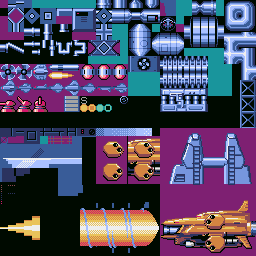
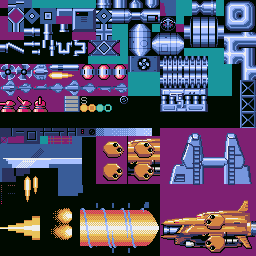
ステージ４　柱当たり判定処理修正 ステージ１ボス　攻撃修正など

Changed region(s): [[0.1875, 0.8125, 0.2812, 0.9375], [0.0938, 0.6875, 0.1562, 0.7812]]

diff --git a/source/boss1.py b/source/boss1.py
@@ -66,6 +66,8 @@ class Boss1(enemy.EnemyBase):
 		self.beamTime = __class__.beamTimes[GameSession.difficulty]
 		#gcommon.debugPrint("beam Time = " + str(self.beamTime))
 		self.tbl = []
+		self.shotFlag = False
+		self.dy = 0.0
 		self.beamObj = Boss1Beam(self)
 		ObjMgr.addObj(self.beamObj)
 
@@ -138,7 +140,7 @@ class Boss1(enemy.EnemyBase):
 					newTbl.append(s)
 			self.tbl = newTbl
 
-			if self.cnt > self.beamTime:
+			if self.cnt > 90:
 				self.nextState()
 				BGM.sound(gcommon.SOUND_BOSS1BEAM)
 		elif self.state == 5:
@@ -157,29 +159,34 @@ class Boss1(enemy.EnemyBase):
 			self.beam = 6
 			zy = abs(self.y +30 - ObjMgr.myShip.y)
 			if zy > 80:
-				dy = 3
+				self.dy = 3
 			elif zy > 50:
-				dy = 2
+				self.dy = 2
 			elif zy > 20:
-				dy = 1
+				self.dy = 1
 			else:
-				dy = 0.25
+				self.dy = 0.25
 			if self.y +30 > ObjMgr.myShip.y:
-				dy = -dy
-			self.y += dy
-			if self.cnt % 30 == 0:
-				self.shotFix4()
+				self.dy = -self.dy
+			self.y += self.dy
+			#if self.cnt % 30 == 0:
+			#	self.shotFix4()
 			if self.cnt > self.beamTime:
 				self.nextState()
 		elif self.state == 8:
+			self.dy = 0.0
 			# ビーム発射終了（移動なし）
 			self.beam = 5- int(self.cnt/3)
 			self.beamObj.hitCheck = False
 			if self.beam < 0:
-				self.state = 3
-				self.cnt = 0
+				self.setState(3)
 	def draw(self):
 		if self.state == 4:
+			if self.cnt > 20:
+				if self.cnt & 3 == 0:
+					pyxel.blt(self.x -22, self.y+22, 1, 48, 208, 24, 16, 0)
+				elif self.cnt & 3 == 1:
+					pyxel.blt(self.x -22, self.y+22, 1, 48, 224, 24, 16, 0)
 			for s in self.tbl:
 				y = s.x* s.x/s.a
 				pyxel.pset(self.x -s.x, self.y +28 -y + s.y, 7)
@@ -190,6 +197,24 @@ class Boss1(enemy.EnemyBase):
 		else:
 			pyxel.blt(self.x +40, self.y+8, 1, 128, 136, 32, 48, gcommon.TP_COLOR)
 		pyxel.blt(self.x +72, self.y , 1, 232, 200, 24, 56, gcommon.TP_COLOR)
+
+		# バーニア
+		if self.dy > 0.1:
+			if self.cnt & 3 == 0:
+				pyxel.blt(self.x +24, self.y-6, 1, 24, 176, 8, -26, 0)
+				pyxel.blt(self.x +72, self.y-6, 1, 24, 176, 8, -26, 0)
+			elif self.cnt & 3 == 2:
+				pyxel.blt(self.x +24, self.y-6, 1, 32, 176, 8, -26, 0)
+				pyxel.blt(self.x +72, self.y-6, 1, 32, 176, 8, -26, 0)
+		elif self.dy < -0.1:
+			if self.cnt & 3 == 0:
+				pyxel.blt(self.x +24, self.y+42, 1, 24, 176, 8, 26, 0)
+				pyxel.blt(self.x +72, self.y+42, 1, 24, 176, 8, 26, 0)
+			elif self.cnt & 3 == 2:
+				pyxel.blt(self.x +24, self.y+42, 1, 32, 176, 8, 26, 0)
+				pyxel.blt(self.x +72, self.y+42, 1, 32, 176, 8, 26, 0)
+
+		# ビーム表示
 		if self.beam >= 1 and self.beam <=5:
 			bx = self.x -12
 			while(bx > -8):
@@ -213,25 +238,35 @@ class Boss1(enemy.EnemyBase):
 
 	def shotFix4(self):
 		ox = 0 if self.isLeft else 8
-		enemy.enemy_shot_dr(self.x +48 +ox*2, self.y +22, 4, 1, self.getDirection(33))
-		enemy.enemy_shot_dr(self.x +52 +ox, self.y +16, 4, 1, self.getDirection(37))
-		enemy.enemy_shot_dr(self.x +48 +ox*2, self.y +42, 4, 1, self.getDirection(31))
-		enemy.enemy_shot_dr(self.x +52 +ox, self.y +48, 4, 1, self.getDirection(27))
+		if self.shotFlag:
+			enemy.enemy_shot_dr(self.x +48 +ox*2, self.y +22, 4, 1, self.getDirection(32+3))
+			enemy.enemy_shot_dr(self.x +52 +ox, self.y +16, 4, 1, self.getDirection(32+7))
+			enemy.enemy_shot_dr(self.x +48 +ox*2, self.y +42, 4, 1, self.getDirection(32-3))
+			enemy.enemy_shot_dr(self.x +52 +ox, self.y +48, 4, 1, self.getDirection(32-7))
+			self.shotFlag = False
+		else:
+			enemy.enemy_shot_dr(self.x +48 +ox*2, self.y +22, 4, 1, self.getDirection(32+1))
+			enemy.enemy_shot_dr(self.x +52 +ox, self.y +16, 4, 1, self.getDirection(32+5))
+			enemy.enemy_shot_dr(self.x +48 +ox*2, self.y +42, 4, 1, self.getDirection(32-1))
+			enemy.enemy_shot_dr(self.x +52 +ox, self.y +48, 4, 1, self.getDirection(32-5))
+			self.shotFlag = True
 		BGM.sound(gcommon.SOUND_SHOT2)
 
 	def shotFix8(self):
 		ox = 0 if self.isLeft else 8
-		enemy.enemy_shot_dr(self.x +48 +ox*2, self.y +22, 2, 0, self.getDirection(31))
-		enemy.enemy_shot_dr(self.x +48 +ox*2, self.y +22, 2, 0, self.getDirection(33))
-		
-		enemy.enemy_shot_dr(self.x +52 +ox, self.y +16, 2, 0, self.getDirection(35))
-		enemy.enemy_shot_dr(self.x +52 +ox, self.y +16, 2, 0, self.getDirection(37))
-		
-		enemy.enemy_shot_dr(self.x +48 +ox*2, self.y +42, 2, 0, self.getDirection(31))
-		enemy.enemy_shot_dr(self.x +48 +ox*2, self.y +42, 2, 0, self.getDirection(33))
-		
-		enemy.enemy_shot_dr(self.x +52 +ox, self.y +48, 2, 0, self.getDirection(27))
-		enemy.enemy_shot_dr(self.x +52 +ox, self.y +48, 2, 0, self.getDirection(29))
+
+		if self.shotFlag:
+			enemy.enemy_shot_dr(self.x +48 +ox*2, self.y +22, 4, 1, self.getDirection(32+3))
+			enemy.enemy_shot_dr(self.x +52 +ox, self.y +16, 4, 1, self.getDirection(32+7))
+			enemy.enemy_shot_dr(self.x +48 +ox*2, self.y +42, 4, 1, self.getDirection(32-3))
+			enemy.enemy_shot_dr(self.x +52 +ox, self.y +48, 4, 1, self.getDirection(32-7))
+			self.shotFlag = False
+		else:
+			enemy.enemy_shot_dr(self.x +48 +ox*2, self.y +22, 4, 1, self.getDirection(32+1))
+			enemy.enemy_shot_dr(self.x +52 +ox, self.y +16, 4, 1, self.getDirection(32+5))
+			enemy.enemy_shot_dr(self.x +48 +ox*2, self.y +42, 4, 1, self.getDirection(32-1))
+			enemy.enemy_shot_dr(self.x +52 +ox, self.y +48, 4, 1, self.getDirection(32-5))
+			self.shotFlag = True
 		BGM.sound(gcommon.SOUND_SHOT2)
 
 	def broken(self):

diff --git a/source/enemy.py b/source/enemy.py
@@ -1415,8 +1415,8 @@ class Missile3(EnemyBase):
 			if self.dx > 3:
 				self.dx = 3
 		if self.x < 32:
-			for i in range(16):
-				enemy_shot_dr(self.x + 8, self.y + 3, 2, 0, i*4)
+			for i in range(6):
+				enemy_shot_dr(self.x + 8, self.y + 3, 2, 0, int(i*10.6))
 			self.remove()
 		
 	def drawMissile(self):
@@ -1804,10 +1804,10 @@ class Worm2(EnemyBase):
 		self.y = t[3]
 		self.dr = t[4]
 		self.tbl = t[5]
-		self.left = 2
-		self.top = 2
-		self.right = 21
-		self.bottom = 21
+		self.left = 4
+		self.top = 4
+		self.right = 19
+		self.bottom = 19
 		self.hp = 600
 		#self.layer = gcommon.C_LAYER_UNDER_GRD
 		self.layer = gcommon.C_LAYER_GRD
@@ -2050,9 +2050,11 @@ class FallingObject(EnemyBase):
 		for i in range(self.mWidth):
 			check = False
 			if self.direction == 1:
-				check = gcommon.isMapFreePos(self.x + i*8, self.y +self.mHeight * 8)
+				#check = gcommon.isMapFreePos(self.x + i*8, self.y +self.mHeight * 8)
+				check = gcommon.isMapZeroPos(self.x + i*8, self.y +self.mHeight * 8)
 			else:
-				check = gcommon.isMapFreePos(self.x + i*8, self.y -1)
+				#check = gcommon.isMapFreePos(self.x + i*8, self.y -1)
+				check = gcommon.isMapZeroPos(self.x + i*8, self.y -1)
 			if check == False:
 				# 何かある
 				exist = True
@@ -2089,6 +2091,10 @@ class RuinPillar1(FallingObject):
 	def __init__(self, mx, my, direction, size):
 		super(RuinPillar1, self).__init__(mx, my, direction, 2, size, True)
 		self.size = size	# 高さ（8ドット単位） 2 - 6
+		self.left = 2
+		self.top = 0
+		self.right = 2 * 8 -3
+		self.bottom = self.mHeight * 8 -1
 		self.hp = 30
 		self.score = 50
 		self.bx = (self.size -2) * 2
@@ -2104,10 +2110,10 @@ class RuinFloor1(FallingObject):
 	def __init__(self, mx, my, direction, size):
 		super(RuinFloor1, self).__init__(mx, my, direction, size*2, 2, True)
 		self.size = size
-		self.left = 0
-		self.top = 4
-		self.right = self.mWidth * 8
-		self.bottom = self.mHeight * 8 -5
+		self.left = 2
+		self.top = 0
+		self.right = self.mWidth * 8 -3
+		self.bottom = self.mHeight * 8 -1
 		self.by = (self.size -2) * 2
 		self.enemyShotCollision = True
 		self.shotEffect = False
@@ -3400,9 +3406,9 @@ class Fighter2(EnemyBase):
 		self.brakeX = t[4]
 		self.dx = -3
 		self.direction = t[5]	# -1: 上  1:下
-		self.left = 5
+		self.left = 8
 		self.top = 4
-		self.right = 21
+		self.right = 29
 		self.bottom = 27
 		self.hp = 30
 		self.layer = gcommon.C_LAYER_SKY

diff --git a/source/boss4.py b/source/boss4.py
@@ -44,14 +44,17 @@ class Boss4(enemy.EnemyBase):
 				self.nextState()
 		elif self.state == 1:
 			if self.subState == 0:
+				# 上に移動
 				self.y -= 1
 				if self.y < 8:
 					self.nextSubState()
 			elif self.subState == 1:
+				# 下に移動
 				self.y += 1
 				if self.y > 140:
 					self.nextSubState()
 			elif self.subState == 2:
+				# 上に移動
 				self.y -= 1
 				if self.y < 80:
 					self.subState = 0
@@ -59,9 +62,9 @@ class Boss4(enemy.EnemyBase):
 					self.nextState()
 			if self.cnt & 15 == 15:
 				self.shotDanmaku()
-		elif self.state == 2:
+		elif self.state in (2, 3, 4):
 			self.shotMissle()
-		elif self.state == 3:
+		elif self.state == 5:
 			if self.subState == 0:
 				self.y += 1
 				if self.y > 140:
@@ -78,9 +81,9 @@ class Boss4(enemy.EnemyBase):
 					self.nextState()
 			if self.cnt & 15 == 15:
 				self.shotDanmaku()
-		elif self.state in  [4, 5, 6, 7, 8]:
+		elif self.state in  [6, 7, 8, 9, 10]:
 			self.shotMissle()
-		elif self.state == 9:
+		elif self.state == 11:
 			self.setState(1)
 
 	def shotMissle(self):
@@ -105,12 +108,12 @@ class Boss4(enemy.EnemyBase):
 					elif mt == 1:
 						self.missileObj[i] = enemy.Missile2(self.x, self.y +16, 0)
 					else:
-						self.missileObj[i] = enemy.Missile3(self.x, self.y +16, 0)
+						self.missileObj[i] = enemy.Missile1(self.x, self.y +16, 0)
 				self.missileIndex += 1
 				if self.missileIndex >= len(missileTable):
 					self.missileIndex = 0
 				self.subCnt += 1
-			elif self.subCnt == 40:
+			elif self.subCnt == 20:
 				# ミサイル発射中へ
 				self.nextSubState()
 				self.missileState = 0
@@ -138,7 +141,7 @@ class Boss4(enemy.EnemyBase):
 				self.subCnt = 0
 		elif self.subState == 2:
 			# 待ち
-			if self.subCnt == 30:
+			if self.subCnt == 20:
 				self.setSubState(0)
 				self.nextState()
 				return
@@ -146,7 +149,7 @@ class Boss4(enemy.EnemyBase):
 
 	def shotDanmaku(self):
 		if self.cnt & 31 == 31:
-			speed = 3
+			speed = 2.5
 			enemy.enemy_shot_dr(self.x +52, self.y +16, speed, 0, 35)
 			enemy.enemy_shot_dr(self.x +48, self.y +22, speed, 0, 31)
 			enemy.enemy_shot_dr(self.x +48, self.y +42, speed, 0, 33)

diff --git a/source/gcommon.py b/source/gcommon.py
@@ -772,6 +772,10 @@ def isMapFree(no):
 	global mapAttribute
 	return mapAttribute[no >> 5][no & 31] != "1"
 
+def isMapZero(no):
+	global mapAttribute
+	return mapAttribute[no >> 5][no & 31] == "0"
+
 # 敵弾発射可能？
 def isShotMapPos(x, y):
 	no = getMapData(x, y)
@@ -786,6 +790,13 @@ def isMapFreePos(x, y):
 	no = getMapData(x, y)
 	if no >= 0:
 		return isMapFree(no)
+	else:
+		return True
+
+def isMapZeroPos(x, y):
+	no = getMapData(x, y)
+	if no >= 0:
+		return isMapZero(no)
 	else:
 		return True
 

diff --git a/source/mapDraw.py b/source/mapDraw.py
@@ -518,10 +518,7 @@ class MapDraw4:
 					ObjMgr.addObj(obj)
 				elif n in (390, 391):
 					# 砲台
-					obj = enemy.Battery2(mx, my, 1)
-					if n == 391:
-						obj.direction = -1
-					ObjMgr.addObj(obj)
+					ObjMgr.addObj(enemy.Battery2(mx, my, 1 if n==390 else -1))
 				else:
 					# 共通のマップキャラクタ処理
 					doMapCharacter(n, mx, my)
